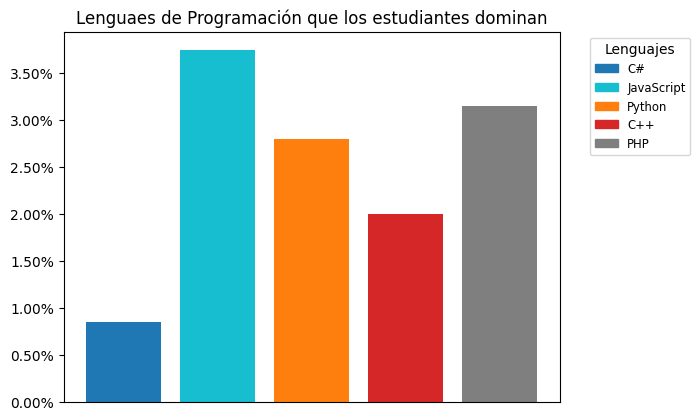
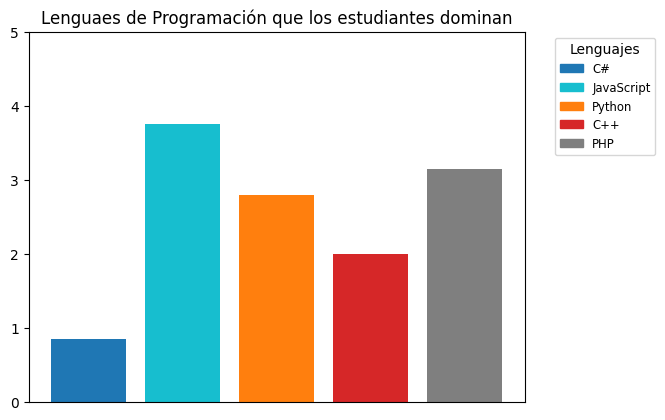
Graficas

diff --git a/make_graphics.py b/make_graphics.py
@@ -251,54 +251,26 @@ identificador_habilidades = ["H1","H2","H3","H4","H5","H6","H7","H8"]
 promedios_habilidades_es = [np.mean(trabajo_en_equipo_es), np.mean(liderazgo_es), np.mean(manejo_de_estres_es), np.mean(buena_comunicacion_es), np.mean(puntualidad_y_responsabilidad_es), np.mean(resolucion_de_problemas_es), np.mean(proactividad_es), np.mean(resolucion_de_problemas_es)]
 promedios_habilidades_bc = [np.mean(trabajo_en_equipo_bc), np.mean(liderazgo_bc), np.mean(manejo_de_estres_bc), np.mean(buena_comunicacion_bc), np.mean(puntualidad_y_responsabilidad_bc), np.mean(resolucion_de_problemas_bc), np.mean(proactividad_bc), np.mean(resolucion_de_problemas_bc)]
 
-habilidades_es_df = pd.DataFrame({
-    "Habilidades": [x.replace(" ", "\n") for x in nombre_habilidades],
-    "Identificador": identificador_habilidades,
-    "Promedios": promedios_habilidades_es
-    })
-
-habilidades_bc_df = pd.DataFrame({
-    "Habilidades": nombre_habilidades,
-    "Identificador": identificador_habilidades,
-    "Promedios": promedios_habilidades_bc
-    })
-
-
 # Grafica estudiantes
-plt.bar('Identificador', 'Promedios',data=habilidades_es_df, color=colores)
-plt.title("Importancia de Habilidades blandas que poseen los estudiantes de Ingeniería en Sistemas\n")
-plt.xlabel("Habilidad")
-plt.ylabel("Importancia")
-plt.ylim([0,5])
+make_bar(
+        data=nombre_habilidades,
+        por=promedios_habilidades_es,
+        title="Importancia de Habilidades blandas que poseen los estudiantes de Ingeniería en Sistemas\n",
+        file_name="./fig/habilidades_blandas_es.png",
+        range=True,
+        name="Habilidades"
+        )
 
-plt.savefig("./fig/habilidades_blandas_es.png", dpi=None, facecolor='w', edgecolor='w',
-        orientation='portrait', format=None,
-        transparent=False, bbox_inches='tight', pad_inches=0.1,
-        metadata=None)
-plt.clf()
 
 # Grafica empleados
-fig, ax = plt.subplots()
-ax.bar('Identificador', 'Promedios',data=habilidades_bc_df, color=colores)
-plt.title("Importancia de Habilidades blandas requeridas en el sector bancario\n")
-plt.xlabel("Habilidad")
-plt.ylabel("Importancia")
-plt.ylim([0,5])
-
-fontP = FontProperties()
-fontP.set_size('small')
-
-cmap = dict(zip(nombre_habilidades, colores))
-
-patches = [Patch(color=v, label=k) for k, v in cmap.items()]
-
-plt.legend(labels=nombre_habilidades, handles=patches, title='Habilidades', bbox_to_anchor=(1.05, 1), loc='upper left', prop=fontP)
-
-plt.savefig("./fig/habilidades_blandas_bc.png", dpi=None, facecolor='w', edgecolor='w',
-        orientation='portrait', format=None,
-        transparent=False, bbox_inches='tight', pad_inches=0.1,
-        metadata=None)
-plt.clf()
+make_bar(
+        data=nombre_habilidades,
+        por=promedios_habilidades_bc,
+        title="Importancia de Habilidades blandas requeridas en el sector bancario\n",
+        file_name="./fig/habilidades_blandas_bc.png",
+        range=True,
+        name="Habilidades"
+        )
 
 ############## Tecnologias y Frecuencia ##############
 
@@ -315,8 +287,18 @@ frecuencia_apr_es = (frecuencia_apr_es / len(estudiantes)) * 100
 # Frecuencia actualización
 fig, ax = plt.subplots()
 
-ax.pie(frecuencia_act_es, labels=fre_act_set_es, colors=['tab:blue', 'tab:cyan', 'tab:orange', 'tab:red'], autopct='%.0f%%')
+ax.pie(frecuencia_act_es, colors=['tab:blue', 'tab:cyan', 'tab:orange', 'tab:red'], autopct='%.0f%%')
 plt.title("Frecuencia de actualización de conocimientos técnicos \n de estudiantes por egresar de Ingeniería en Sistemas \n en la UNAH")
+
+fontP = FontProperties()
+fontP.set_size('small')
+
+cmap = dict(zip(fre_act_set_es, ['tab:blue', 'tab:cyan', 'tab:orange', 'tab:red']))
+
+patches = [Patch(color=v, label=k) for k, v in cmap.items()]
+
+plt.legend(labels=fre_act_set_es.tolist(), handles=patches, title='Frecuencia', bbox_to_anchor=(1.05, 1), loc='upper left', prop=fontP)
+
 
 plt.savefig("./fig/actualizacion_de_conocimientos_es.png", dpi=None, facecolor='w', edgecolor='w',
         orientation='portrait', format=None,
@@ -327,8 +309,18 @@ plt.clf()
 # Frecuencia aprendizaje
 fig, ax = plt.subplots()
 
-ax.pie(frecuencia_apr_es, labels=fre_apr_set_es, colors=['tab:blue', 'tab:cyan', 'tab:orange', 'tab:red'], autopct='%.0f%%')
+ax.pie(frecuencia_apr_es, colors=['tab:blue', 'tab:cyan', 'tab:orange', 'tab:red'], autopct='%.0f%%')
 plt.title("Frecuencia de aprendizaje de nuevos conocimientos técnicos \n de estudiantes por egresar de Ingeniería en Sistemas \n en la UNAH")
+
+fontP = FontProperties()
+fontP.set_size('small')
+
+cmap = dict(zip(fre_apr_set_es, ['tab:blue', 'tab:cyan', 'tab:orange', 'tab:red']))
+
+patches = [Patch(color=v, label=k) for k, v in cmap.items()]
+
+plt.legend(labels=fre_apr_set_es.tolist(), handles=patches, title='Frecuencia', bbox_to_anchor=(1.05, 1), loc='upper left', prop=fontP)
+
 
 plt.savefig("./fig/aprendizaje_de_conocimientos_es.png", dpi=None, facecolor='w', edgecolor='w',
         orientation='portrait', format=None,
@@ -350,24 +342,43 @@ frecuencia_apr_bc = (frecuencia_apr_bc / len(empleados_de_bancos)) * 100
 # Frecuencia actualización
 fig, ax = plt.subplots()
 
-ax.pie(frecuencia_act_bc, labels=fre_act_set_bc, colors=['tab:blue', 'tab:cyan', 'tab:orange', 'tab:red'], autopct='%.0f%%')
+ax.pie(frecuencia_act_bc, colors=['tab:blue', 'tab:cyan', 'tab:orange', 'tab:red'], autopct='%.0f%%')
 plt.title("Frecuencia de actualización de conocimientos técnicos \n de empleados del sector bancario")
+
+fontP = FontProperties()
+fontP.set_size('small')
+
+cmap = dict(zip(fre_act_set_bc, ['tab:blue', 'tab:cyan', 'tab:orange', 'tab:red']))
+
+patches = [Patch(color=v, label=k) for k, v in cmap.items()]
+
+plt.legend(labels=fre_act_set_bc.tolist(), handles=patches, title='Frecuencia', bbox_to_anchor=(1.05, 1), loc='upper left', prop=fontP)
 
 plt.savefig("./fig/actualizacion_de_conocimientos_bc.png", dpi=None, facecolor='w', edgecolor='w',
         orientation='portrait', format=None,
-        transparent=False, bbox_inches=None, pad_inches=0.1,
+        transparent=False, bbox_inches='tight', pad_inches=0.1,
         metadata=None)
 plt.clf()
 
 # Frecuencia aprendizaje
 fig, ax = plt.subplots()
 
-ax.pie(frecuencia_apr_bc, labels=fre_apr_set_bc, colors=['tab:blue', 'tab:cyan', 'tab:orange', 'tab:red'], autopct='%.0f%%')
+ax.pie(frecuencia_apr_bc, colors=['tab:blue', 'tab:cyan', 'tab:orange', 'tab:red'], autopct='%.0f%%')
 plt.title("Frecuencia de aprendizaje de nuevos conocimientos técnicos \n de empleados del sector bancario")
+
+fontP = FontProperties()
+fontP.set_size('small')
+
+cmap = dict(zip(fre_apr_set_bc, ['tab:blue', 'tab:cyan', 'tab:orange', 'tab:red']))
+
+patches = [Patch(color=v, label=k) for k, v in cmap.items()]
+
+plt.legend(labels=fre_apr_set_bc.tolist(), handles=patches, title='Frecuencia', bbox_to_anchor=(1.05, 1), loc='upper left', prop=fontP)
+
 
 plt.savefig("./fig/aprendizaje_de_conocimientos_bc.png", dpi=None, facecolor='w', edgecolor='w',
         orientation='portrait', format=None,
-        transparent=False, bbox_inches=None, pad_inches=0.1,
+        transparent=False, bbox_inches='tight', pad_inches=0.1,
         metadata=None)
 plt.clf()
 
@@ -383,9 +394,18 @@ interes_set, fre_interes = np.unique(interes_para_trabajar, return_counts=True)
 fre_interes = (fre_interes / len(estudiantes)) * 100
 
 fig, ax = plt.subplots()
-ax.pie(fre_interes, labels=interes_set, colors=['tab:blue', 'tab:cyan', 'tab:orange', 'tab:red'], autopct='%.0f%%' )
+ax.pie(fre_interes, colors=['tab:blue', 'tab:cyan', 'tab:orange', 'tab:red'], autopct='%.0f%%' )
 
 plt.title("Interes de los estudiantes en un empleo")
+
+fontP = FontProperties()
+fontP.set_size('small')
+
+cmap = dict(zip(interes_set, ['tab:blue', 'tab:cyan', 'tab:orange', 'tab:red']))
+
+patches = [Patch(color=v, label=k) for k, v in cmap.items()]
+
+plt.legend(labels=interes_set.tolist(), handles=patches, title='Interes', bbox_to_anchor=(1.05, 1), loc='upper left', prop=fontP)
 
 plt.savefig("./fig/interes_estudiates_trabajo_banco.png", dpi=None, facecolor='w', edgecolor='w',
         orientation='portrait', format=None,
@@ -435,7 +455,7 @@ bancos_df = pd.DataFrame({
     'Porcentaje': fre_bancos
     })
 
-bancos_df.drop(labels=0, axis=0)
+bancos_df = bancos_df.drop(labels=0, axis=0)
 
 bancos_df = bancos_df.sort_values('Porcentaje', ascending=True)
 
@@ -809,7 +829,8 @@ make_bar(
         title="Lenguaes de Programación que los estudiantes dominan",
         name="Lenguajes",
         file_name="./fig/lenguajes_domi.png",
-        drop_df=True
+        drop_df=True,
+        range=True
         )
 
 ############ Patrones de diseño ############
@@ -848,7 +869,8 @@ make_bar(
         title="Gestores de bases de datos que dominan los estudiantes",
         name="Gestores",
         file_name="./fig/gestores_domi.png",
-        drop_df=True
+        drop_df=True,
+        range=True
         )
 
 ############ Diseño de bases de datos ############

diff --git a/make_bar.py b/make_bar.py
@@ -5,7 +5,7 @@ from matplotlib.font_manager import FontProperties
 from matplotlib.patches import Patch
 import pandas as pd
 
-def make_bar(data, por, title, name, file_name, drop_df=False):
+def make_bar(data, por, title, name, file_name, drop_df=False, range=False):
     df = pd.DataFrame({
         'Label': data,
         'Value': por
@@ -33,7 +33,10 @@ def make_bar(data, por, title, name, file_name, drop_df=False):
 
     patches = [Patch(color=v, label=k) for k, v in cmap.items()]
 
-    ax.yaxis.set_major_formatter(mtick.PercentFormatter())
+    if not range:
+        ax.yaxis.set_major_formatter(mtick.PercentFormatter())
+    else:
+        plt.ylim([0,5])
     plt.legend(labels=df['Label'].tolist(), handles=patches, title=name, bbox_to_anchor=(1.05, 1), loc='upper left', prop=fontP)
 
     plt.savefig(file_name, dpi=None, facecolor='w', edgecolor='w',
